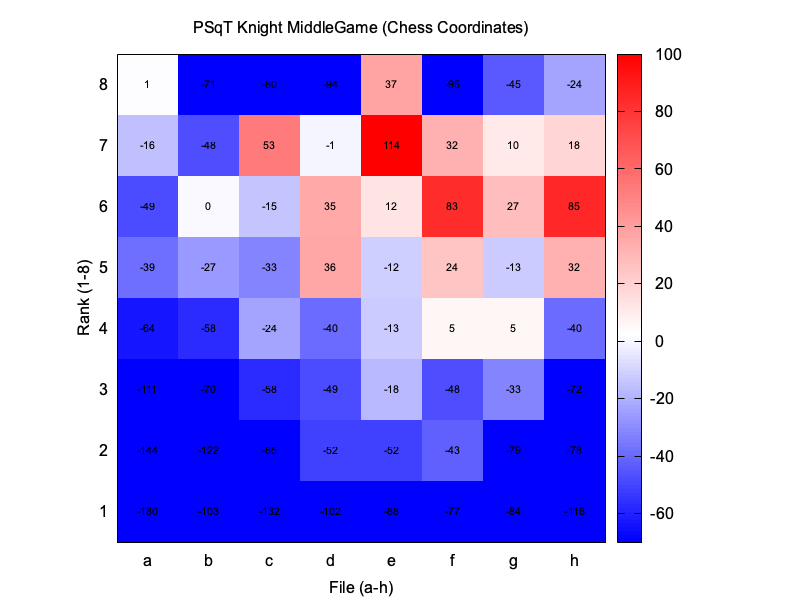
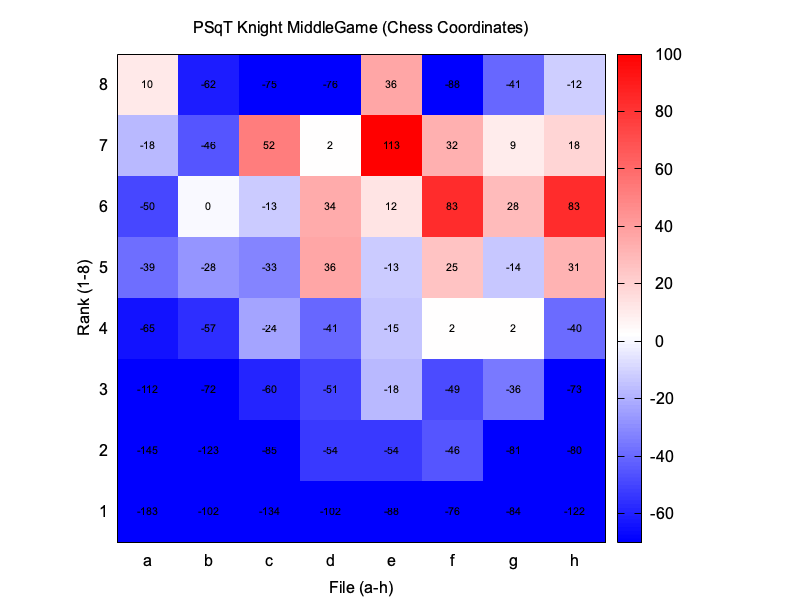
epoch 15

diff --git a/eval/coeffs.go b/eval/coeffs.go
@@ -1,8 +1,8 @@
 package eval
 
 // this file is autogenerated by chess-3/tools/tuner
-// epoch: 8, mse: 0.083131 lichess.eval.3X15m.margin150.epd
-// 2025-11-01 16:33:32.696640066 +0100 CET m=+20024.699570102
+// epoch: 15, mse: 0.083091 lichess.eval.3X15m.margin150.epd
+// 2025-11-01 21:53:14.83088127 +0100 CET m=+39206.833811306
 
 import (
 	. "github.com/paulsonkoly/chess-3/types"
@@ -12,175 +12,175 @@ var Coefficients = CoeffSet[Score]{
 PSqT: [12][64]Score{
 	{
 		   0,    0,    0,    0,    0,    0,    0,    0,
-		  58,   52,   98,  121,   87,   65,  -19,  -78,
-		  59,   77,  102,  123,  128,  161,  180,   99,
-		   3,   14,   41,   45,   63,   71,   49,   38,
-		 -21,  -15,   -5,   22,   23,   17,   -1,   -6,
-		 -20,  -29,  -15,    0,   24,   -2,    5,    2,
-		 -18,  -16,  -32,  -21,   -2,   13,   16,   -8,
+		  57,   53,   97,  119,   85,   63,  -19,  -79,
+		  59,   76,  102,  123,  126,  160,  178,   97,
+		   4,   13,   41,   45,   63,   71,   47,   37,
+		 -21,  -15,   -5,   23,   23,   17,    0,   -6,
+		 -20,  -30,  -14,    0,   23,   -2,    6,    1,
+		 -18,  -15,  -32,  -20,   -2,   12,   15,   -7,
 		   0,    0,    0,    0,    0,    0,    0,    0,
 	},
 	{
 		   0,    0,    0,    0,    0,    0,    0,    0,
-		 186,  188,  185,  136,  110,  159,  173,  176,
-		  76,   73,   42,   -9,   -8,   36,   41,   58,
-		  40,   17,   -5,  -51,  -37,   -6,   11,    6,
-		  -4,   -4,  -29,  -28,  -22,  -16,  -15,  -25,
-		 -16,  -16,  -31,  -16,   -2,  -15,  -22,  -37,
-		  -1,   -4,   -8,  -13,   34,    8,  -13,  -30,
+		 188,  191,  187,  137,  114,  163,  176,  177,
+		  77,   73,   43,  -10,   -9,   36,   43,   59,
+		  41,   17,   -5,  -51,  -36,   -6,   11,    6,
+		  -3,   -4,  -28,  -30,  -22,  -16,  -14,  -24,
+		 -17,  -16,  -31,  -16,   -1,  -14,  -21,  -37,
+		   0,   -5,   -9,  -12,   33,    9,  -13,  -31,
 		   0,    0,    0,    0,    0,    0,    0,    0,
 	},
 	{
-		   1,  -71,  -80,  -94,   37,  -95,  -45,  -24,
-		 -16,  -48,   53,   -1,  114,   32,   10,   18,
-		 -49,    0,  -15,   35,   12,   83,   27,   85,
-		 -39,  -27,  -33,   36,  -12,   24,  -13,   32,
-		 -64,  -58,  -24,  -40,  -13,    5,    5,  -40,
-		-111,  -70,  -58,  -49,  -18,  -48,  -33,  -72,
-		-144, -122,  -85,  -52,  -52,  -43,  -79,  -78,
-		-180, -103, -132, -102,  -88,  -77,  -84, -116,
+		  10,  -62,  -75,  -76,   36,  -88,  -41,  -12,
+		 -18,  -46,   52,    2,  113,   32,    9,   18,
+		 -50,    0,  -13,   34,   12,   83,   28,   83,
+		 -39,  -28,  -33,   36,  -13,   25,  -14,   31,
+		 -65,  -57,  -24,  -41,  -15,    2,    2,  -40,
+		-112,  -72,  -60,  -51,  -18,  -49,  -36,  -73,
+		-145, -123,  -85,  -54,  -54,  -46,  -81,  -80,
+		-183, -102, -134, -102,  -88,  -76,  -84, -122,
 	},
 	{
-		-148,   49,   54,   44,   46,   37,   29, -139,
-		  -8,   25,   25,   94,   73,   42,  -11,  -18,
-		  43,   37,   89,   63,   60,   99,   33,   22,
-		  46,   21,   70,   65,   60,   61,   67,   31,
-		  30,   43,   63,   61,   63,   63,   48,   26,
-		 -27,   -4,   23,   64,   48,   11,    4,    1,
-		  -8,   18,   -4,   -1,    5,   -1,   20,   22,
-		 -47,  -81,   -5,   17,   32,   -7,  -69,  -18,
+		-163,   46,   53,   38,   49,   34,   29, -158,
+		  -9,   26,   26,   96,   78,   44,  -10,  -16,
+		  44,   38,   89,   65,   62,  103,   35,   24,
+		  48,   23,   72,   69,   61,   64,   69,   33,
+		  31,   46,   64,   63,   65,   64,   50,   30,
+		 -25,   -2,   23,   66,   52,   12,    3,    3,
+		  -6,   20,   -2,    1,    7,    1,   23,   25,
+		 -46,  -81,   -1,   22,   35,   -4,  -68,  -16,
 	},
 	{
-		 -10,  -65, -147, -260, -147, -168,  -83,    2,
-		 -70,  -26,  -21,  -87,  -83,  -73,  -80,  -18,
-		 -33,  -12,  -30,    4,  -36,  -11,   -6,    2,
-		 -36,  -36,  -31,   -7,  -18,  -19,  -36,  -62,
-		 -65,  -55,  -63,  -20,  -33,  -47,  -54,  -34,
-		 -24,  -47,  -41,  -52,  -43,  -47,  -44,  -14,
-		 -32,  -15,  -30,  -55,  -41,  -35,   -2,  -31,
-		 -53,  -10,  -43,  -81,  -75,  -55,  -25,  -84,
+		  -4,  -54, -144, -222, -144, -163,  -81,    6,
+		 -71,  -25,  -21,  -85,  -81,  -73,  -78,  -19,
+		 -33,  -12,  -29,    3,  -35,  -10,   -7,    4,
+		 -37,  -36,  -33,   -8,  -19,  -19,  -37,  -61,
+		 -66,  -58,  -63,  -21,  -35,  -48,  -56,  -35,
+		 -25,  -48,  -43,  -52,  -43,  -49,  -45,  -15,
+		 -34,  -16,  -32,  -55,  -42,  -37,   -3,  -34,
+		 -54,  -13,  -43,  -82,  -78,  -56,  -26,  -84,
 	},
 	{
-		   3,   42,   72,   69,   62,   25,   56,  -26,
-		  31,   32,   19,   51,   48,   42,   23,  -24,
-		  42,   31,   49,   21,   45,   95,   53,   65,
-		  22,   50,   36,   67,   49,   38,   32,   37,
-		   5,   29,   52,   48,   41,   29,   22,  -31,
-		   6,   26,   40,   38,   42,   31,   -5,    9,
-		   1,    1,  -15,   -3,   -2,   -7,   34,  -35,
-		 -10,  -39,   -3,   -3,    8,    8,  -29,   27,
+		  -1,   39,   72,   55,   61,   23,   56,  -32,
+		  32,   35,   20,   51,   47,   44,   22,  -25,
+		  42,   33,   49,   23,   48,   97,   55,   68,
+		  21,   53,   39,   70,   52,   39,   33,   39,
+		   6,   30,   54,   51,   44,   29,   21,  -30,
+		   7,   29,   44,   40,   44,   34,   -2,   11,
+		   3,    2,  -14,   -2,    0,   -4,   35,  -33,
+		  -7,  -39,   -2,   -1,    9,    8,  -26,   29,
 	},
 	{
-		   3,   22,  -32,  -36,   21,  -14,   63,  139,
-		 -48,  -74,  -23,   -3,    2,   28,   10,   55,
-		 -70,  -53,  -60,  -37,  -15,   -3,   21,    1,
-		 -88,  -84,  -85,  -71,  -58,  -54,  -10,  -12,
-		-121, -140, -112, -108,  -93, -122,  -70,  -69,
-		-115, -100, -118, -119,  -90,  -99,  -35,  -33,
-		-134, -140, -107, -109,  -98,  -85,  -36,  -94,
-		-110,  -98,  -85,  -77,  -62,  -70,  -40,  -87,
+		   4,   18,  -34,  -41,   18,  -21,   53,  130,
+		 -49,  -75,  -25,   -4,   -1,   23,    6,   49,
+		 -70,  -52,  -62,  -39,  -15,   -4,   18,    0,
+		 -91,  -84,  -86,  -72,  -57,  -56,  -12,  -13,
+		-123, -141, -113, -107,  -93, -122,  -71,  -69,
+		-114, -100, -119, -120,  -91, -100,  -35,  -33,
+		-134, -140, -106, -111,  -99,  -86,  -38,  -93,
+		-110,  -99,  -86,  -77,  -63,  -71,  -41,  -87,
 	},
 	{
-		  66,   73,  107,  108,   88,   89,   65,   34,
-		  71,   85,   93,   89,   73,   64,   68,   37,
-		  71,   67,   78,   61,   28,   53,   37,   38,
-		  71,   66,   81,   56,   38,   57,   35,   26,
-		  52,   53,   48,   40,   21,   38,   14,    4,
-		   6,    1,   18,   10,   -3,    1,  -41,  -43,
-		  -1,   -3,    5,    9,   -2,  -19,  -51,  -18,
-		  23,    9,   23,   14,    4,   16,  -17,  -17,
+		  68,   75,  112,  114,   95,   95,   73,   41,
+		  73,   86,   96,   93,   76,   67,   72,   39,
+		  73,   69,   79,   62,   31,   55,   39,   40,
+		  70,   66,   82,   57,   41,   58,   37,   29,
+		  51,   52,   50,   42,   24,   41,   16,    5,
+		   6,    3,   19,   11,   -2,    3,  -38,  -42,
+		  -1,   -3,    7,   10,   -2,  -18,  -51,  -18,
+		  23,   10,   25,   16,    5,   16,  -15,  -17,
 	},
 	{
-		 -31,  -31,   20, -235,   48,   99,   80,   39,
-		 -93, -110,  -97, -145, -127,    0,  -61,   36,
-		 -77, -109,  -37,  -69,  -25,   44,   35,   15,
-		-107, -104, -101,  -84,  -68,  -89,  -84,  -25,
-		 -68, -118, -110,  -86,  -76, -103,  -69,  -53,
-		 -93,  -79,  -98, -104,  -99,  -90,  -67,  -49,
-		-100,  -88,  -81,  -70,  -68,  -61,  -34,   26,
-		-125, -103,  -91,  -77,  -71, -121,  -79,  -96,
+		 -22,  -15,   26, -260,   45,   92,   82,   43,
+		 -96, -114, -100, -151, -135,   -8,  -62,   30,
+		 -81, -114,  -40,  -73,  -32,   36,   28,    7,
+		-110, -110, -106,  -87,  -74,  -94,  -91,  -32,
+		 -74, -124, -115,  -92,  -81, -109,  -75,  -60,
+		 -96,  -84, -104, -109, -106,  -97,  -74,  -57,
+		-102,  -94,  -87,  -75,  -73,  -67,  -39,   20,
+		-123, -108,  -97,  -83,  -76, -124,  -69,  -84,
 	},
 	{
-		 -37,   33,   51,  283,  123,   75,   14,  -17,
-		  30,   80,  175,  244,  286,  239,  173,   59,
-		  22,  124,  106,  163,  189,  219,  128,  125,
-		  64,  123,  145,  157,  184,  187,  196,   71,
-		 -25,   71,  108,  142,   97,  123,   47,   28,
-		 -40,   -7,   80,   50,   82,   73,  -12,  -71,
-		 -51,  -39,  -22,  -29,   -6,  -62, -143, -174,
-		 -78,  -97,  -76,  -20, -112, -119, -158,  -33,
+		 -56,   17,   46,  317,  130,   79,   10,  -23,
+		  30,   84,  177,  253,  295,  249,  178,   65,
+		  27,  129,  110,  168,  196,  232,  138,  138,
+		  69,  130,  149,  166,  193,  195,  207,   85,
+		 -13,   75,  118,  150,  105,  134,   59,   41,
+		 -34,    6,   89,   60,   92,   84,    1,  -59,
+		 -51,  -32,  -12,  -18,    5,  -53, -134, -172,
+		 -81,  -95,  -71,   -6, -102, -120, -176,  -48,
 	},
 	{
-		 102,   57,   41,  -76,  -31,   53, -139,  -34,
-		 -28,  -30,   -2,  -43,  -90,   -2,  -21, -205,
-		-109,   30,  -43, -137, -110,  -55,  -50, -303,
-		-333, -189, -198, -220, -294, -305, -383, -512,
-		-327, -193, -179, -178, -242, -264, -336, -457,
-		-185, -110, -111, -104,  -91, -151,  -98, -172,
-		  23,    2,   -1,  -23,  -27,    4,   40,   55,
-		 -18,  107,   87,  -33,   42,  -23,  100,   70,
+		  97,   30,   13,  -97,  -51,   43, -163,  -66,
+		 -31,  -42,  -15,  -69, -112,  -16,  -19, -214,
+		-115,   23,  -55, -151, -124,  -66,  -56, -313,
+		-348, -191, -204, -222, -302, -312, -396, -537,
+		-332, -195, -182, -181, -245, -267, -338, -463,
+		-184, -108, -113, -105,  -89, -150,  -98, -170,
+		  26,    3,    0,  -22,  -25,    6,   43,   55,
+		 -15,  109,   89,  -31,   44,  -22,  101,   72,
 	},
 	{
-		-263,  -11,   51,   50,   59,   52,   32, -226,
-		 -24,  103,  139,  126,  137,  142,  122,   17,
-		  18,   99,  135,  145,  145,  147,  121,   65,
-		  32,   84,  120,  124,  130,  123,  115,   45,
-		  -7,   49,   75,   90,   85,   70,   49,   13,
-		 -37,   -1,   19,   29,   24,   16,  -18,  -50,
-		 -76,  -33,  -26,  -20,  -15,  -32,  -55, -105,
-		-116, -117,  -79,  -67,  -89,  -77, -110, -184,
+		-270,   -5,   55,   54,   63,   55,   36, -227,
+		 -24,  106,  144,  132,  142,  146,  124,   21,
+		  21,  101,  138,  149,  147,  151,  124,   67,
+		  35,   86,  121,  125,  132,  124,  116,   50,
+		  -6,   49,   74,   90,   85,   70,   48,   14,
+		 -39,    0,   19,   30,   25,   16,  -18,  -53,
+		 -77,  -33,  -25,  -21,  -16,  -33,  -57, -108,
+		-120, -119,  -81,  -70,  -91,  -79, -113, -188,
 	},
 },
 PieceValues: [2][7]Score{
-	{    0,   25,  232,  210,  217,  260,    0},
-	{    0,  204,  422,  465,  837, 1638,    0},
+	{    0,   24,  227,  203,  203,  156,    0},
+	{    0,  208,  436,  479,  864, 1767,    0},
 },
-TempoBonus: [2]Score{   60,   54},
+TempoBonus: [2]Score{   59,   56},
 KingAttackPieces: [2][4]Score{
 	{    7,   11,   13,   12},
-	{    9,    7,    3,   35},
+	{   10,    7,    4,   35},
 },
 SafeChecks: [2][4]Score{
-	{   15,    3,   14,   10},
-	{    3,   19,    4,    1},
+	{   15,    3,   14,    9},
+	{    3,   19,    5,    1},
 },
 KingShelter: [2]Score{    8,    2},
 MobilityKnight: [2][9]Score{
-	{ -146, -108,  -96,  -92,  -80,  -72,  -63,  -53,  -58},
-	{ -145,  -51,   21,   56,   84,  109,  113,  109,   95},
+	{ -149, -110,  -97,  -93,  -81,  -73,  -65,  -56,  -58},
+	{ -139,  -46,   24,   60,   88,  113,  116,  113,  100},
 },
 MobilityBishop: [2][14]Score{
-	{ -107,  -93,  -81,  -72,  -61,  -60,  -50,  -44,  -46,  -41,  -36,  -30,  -15,   39},
-	{ -146,  -43,  -14,   22,   57,   88,  100,  112,  126,  119,  119,  117,  129,   85},
+	{ -107,  -93,  -82,  -73,  -62,  -61,  -50,  -45,  -47,  -42,  -38,  -31,  -18,   36},
+	{ -143,  -42,  -12,   23,   58,   90,  104,  115,  130,  124,  123,  120,  134,   89},
 },
 MobilityRook: [2][11]Score{
-	{ -115, -106,  -99,  -83,  -73,  -59,  -52,  -43,  -40,  -37,  -15},
-	{   -8,   25,   36,   42,   68,   80,   91,   92,   99,  108,   88},
+	{ -116, -107, -100,  -85,  -74,  -60,  -52,  -44,  -43,  -39,  -16},
+	{   -8,   27,   38,   45,   71,   84,   94,   97,  103,  113,   92},
 },
 KnightOutpost: [2][40]Score{
 	{
-		 -39,  -75,   53,  -69,  114,   74,    3,  -87,
-		  46,   18,  -28,   -8,    9,  -80,  -42,  -24,
-		   5,   17,   52,   33,   77,   71,   64,  -27,
-		  24,   22,   51,   23,   62,   51,   89,    9,
-		   0,    0,    0,   48,   54,    0,    0,    0,
+		 -58,  -88,   36,  -88,  119,   58,  -46, -108,
+		  46,   16,  -28,  -11,    6,  -82,  -49,  -33,
+		   6,   16,   49,   31,   76,   71,   63,  -33,
+		  24,   23,   51,   23,   61,   52,   89,    8,
+		   0,    0,    0,   48,   53,    0,    0,    0,
 	},
 	{
-		 -63,  -40,   24,  -48,   71,   50,  -64,   56,
-		  25,   11,   14,  -23,  -47,   13,   31,   62,
-		  12,  -29,    2,   17,   31,   24,   47,   64,
-		  -1,   15,   38,   60,   77,   57,    1,   62,
-		   0,    0,    0,   48,   52,    0,    0,    0,
+		 -61,  -47,   32,  -51,   86,   65,  -61,   76,
+		  29,   13,   15,  -22,  -44,   17,   36,   70,
+		  11,  -26,    5,   17,   34,   26,   49,   70,
+		   1,   16,   40,   63,   80,   60,    4,   64,
+		   0,    0,    0,   49,   55,    0,    0,    0,
 	},
 },
-ConnectedRooks: [2]Score{    3,   17},
-BishopPair: [9]Score{   89,  134,  122,  106,   84,   67,   53,   52,   55},
-ProtectedPasser: [2]Score{   37,    7},
-PasserKingDist: [2]Score{   11,   11},
+ConnectedRooks: [2]Score{    3,   16},
+BishopPair: [9]Score{   89,  137,  123,  106,   84,   67,   54,   52,   56},
+ProtectedPasser: [2]Score{   39,    9},
+PasserKingDist: [2]Score{   10,   11},
 PasserRank: [2][6]Score{
-	{  -10,  -35,  -10,    2,    2,   44},
-	{  -10,    8,   44,   80,  131,  168},
+	{  -10,  -35,   -7,    1,    0,   41},
+	{  -10,    8,   46,   80,  135,  175},
 },
-DoubledPawns: [2]Score{  -13,  -64},
+DoubledPawns: [2]Score{  -12,  -64},
 IsolatedPawns: [2]Score{  -24,  -18},
 }

diff --git a/docs/eval/readme.md b/docs/eval/readme.md
@@ -84,7 +84,7 @@
 ![TempoBonus](tempobonus.png)
 
 
-Middle Game: 60 | End Game: 54
+Middle Game: 59 | End Game: 56
 
 
 ## KingAttackPieces
@@ -142,7 +142,7 @@ Middle Game: 8 | End Game: 2
 ![ConnectedRooks](connectedrooks.png)
 
 
-Middle Game: 3 | End Game: 17
+Middle Game: 3 | End Game: 16
 
 
 ## BishopPair
@@ -156,7 +156,7 @@ Middle Game: 3 | End Game: 17
 ![ProtectedPasser](protectedpasser.png)
 
 
-Middle Game: 37 | End Game: 7
+Middle Game: 39 | End Game: 9
 
 
 ## PasserKingDist
@@ -164,7 +164,7 @@ Middle Game: 37 | End Game: 7
 ![PasserKingDist](passerkingdist.png)
 
 
-Middle Game: 11 | End Game: 11
+Middle Game: 10 | End Game: 11
 
 
 ## PasserRank
@@ -178,7 +178,7 @@ Middle Game: 11 | End Game: 11
 ![DoubledPawns](doubledpawns.png)
 
 
-Middle Game: -13 | End Game: -64
+Middle Game: -12 | End Game: -64
 
 
 ## IsolatedPawns
